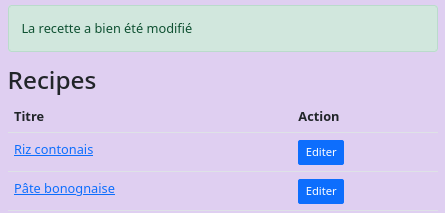
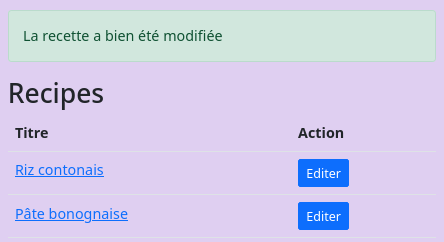
.

diff --git a/html/TutoSymfony/src/Controller/RecipeController.php b/html/TutoSymfony/src/Controller/RecipeController.php
@@ -49,7 +49,7 @@ class RecipeController extends AbstractController
         // précédement appelé.
         if($form->isSubmitted() && $form->isValid()) {
             $em->flush();
-            $this->addFlash('success', 'La recette a bien été modifié');
+            $this->addFlash('success', 'La recette a bien été modifiée');
             return $this->redirectToRoute('recipe.index');
         }
 
